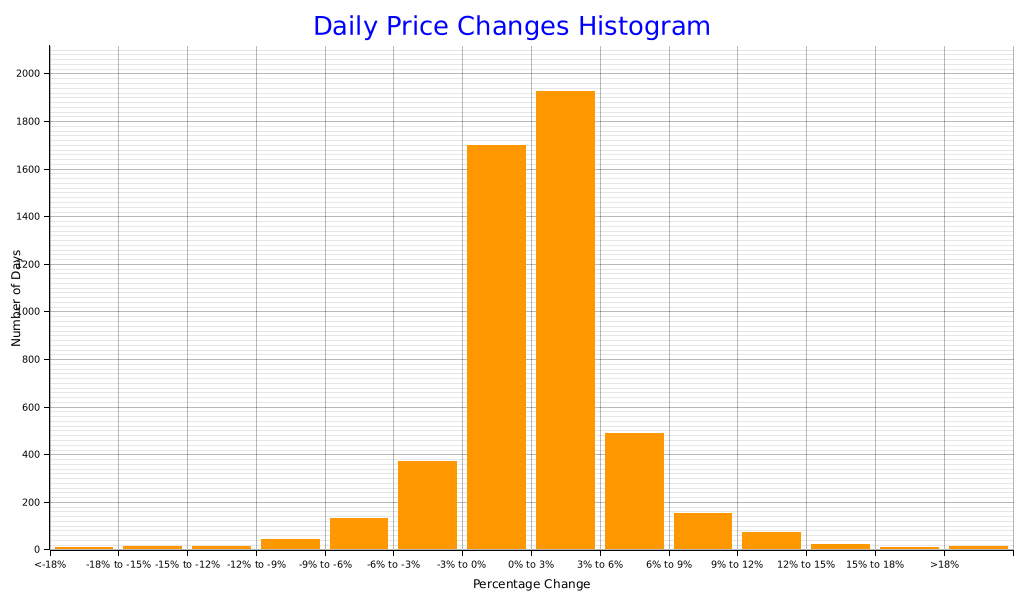
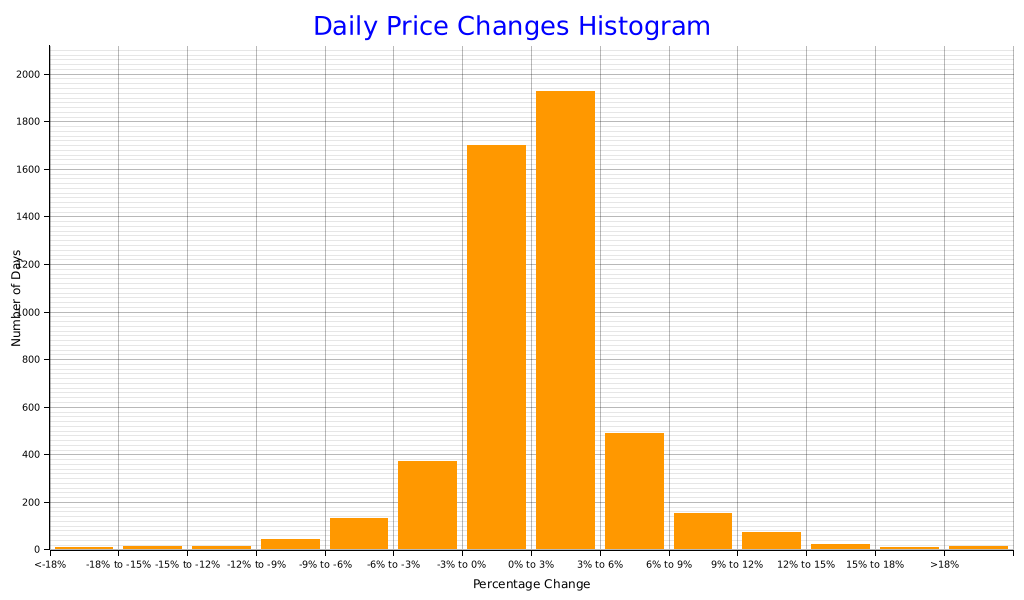
deploy: 5c9706391ed4a10d909b6f24814ac8746e87cbec

diff --git a/index.html b/index.html
@@ -34,7 +34,7 @@
           <td>123,091.60</td>
           <td>74,436.67</td>
           <td></td>
-          <td>9,067,024,089,088.0</td>
+          <td>9,065,121,972,224.0</td>
         </tr>
         <tr>
           <td class='yearly-summary-year'>2024</td>
@@ -186,11 +186,11 @@
         </tr>
         <tr>
           <td>-3% to 0%</td>
-          <td>1700</td>
+          <td>1699</td>
         </tr>
         <tr>
           <td>0% to 3%</td>
-          <td>1925</td>
+          <td>1926</td>
         </tr>
         <tr>
           <td>3% to 6%</td>
@@ -227,7 +227,7 @@
     <br><br>
     <a href='https://github.com/bitcoin-tools/btracker'>Link to the report codebase</a>
     <br><br>
-    This report was last updated at 2025-07-17 15:27:20.790612271 UTC.
+    This report was last updated at 2025-07-17 15:47:39.818959512 UTC.
     <br><br>
     <div class='scrollable-table'>
       <table>
@@ -251,12 +251,12 @@
             <td>118,722.80</td>
             <td>119,184.11</td>
             <td>117,508.21</td>
-            <td>118,628.06</td>
-            <td class='wma-column'>50,022.69</td>
-            <td>50.59 (0.10 %)</td>
-            <td>70,844.70 (148.2 %)</td>
+            <td>119,086.65</td>
+            <td class='wma-column'>50,023.03</td>
+            <td>50.93 (0.10 %)</td>
+            <td>71,303.29 (149.2 %)</td>
             <td>1,675.89 (1.4 %)</td>
-            <td>-110.44 (0.0 %)</td>
+            <td>348.14 (0.2 %)</td>
           </tr>
           <tr>
             <td>2025-07-16</td>
